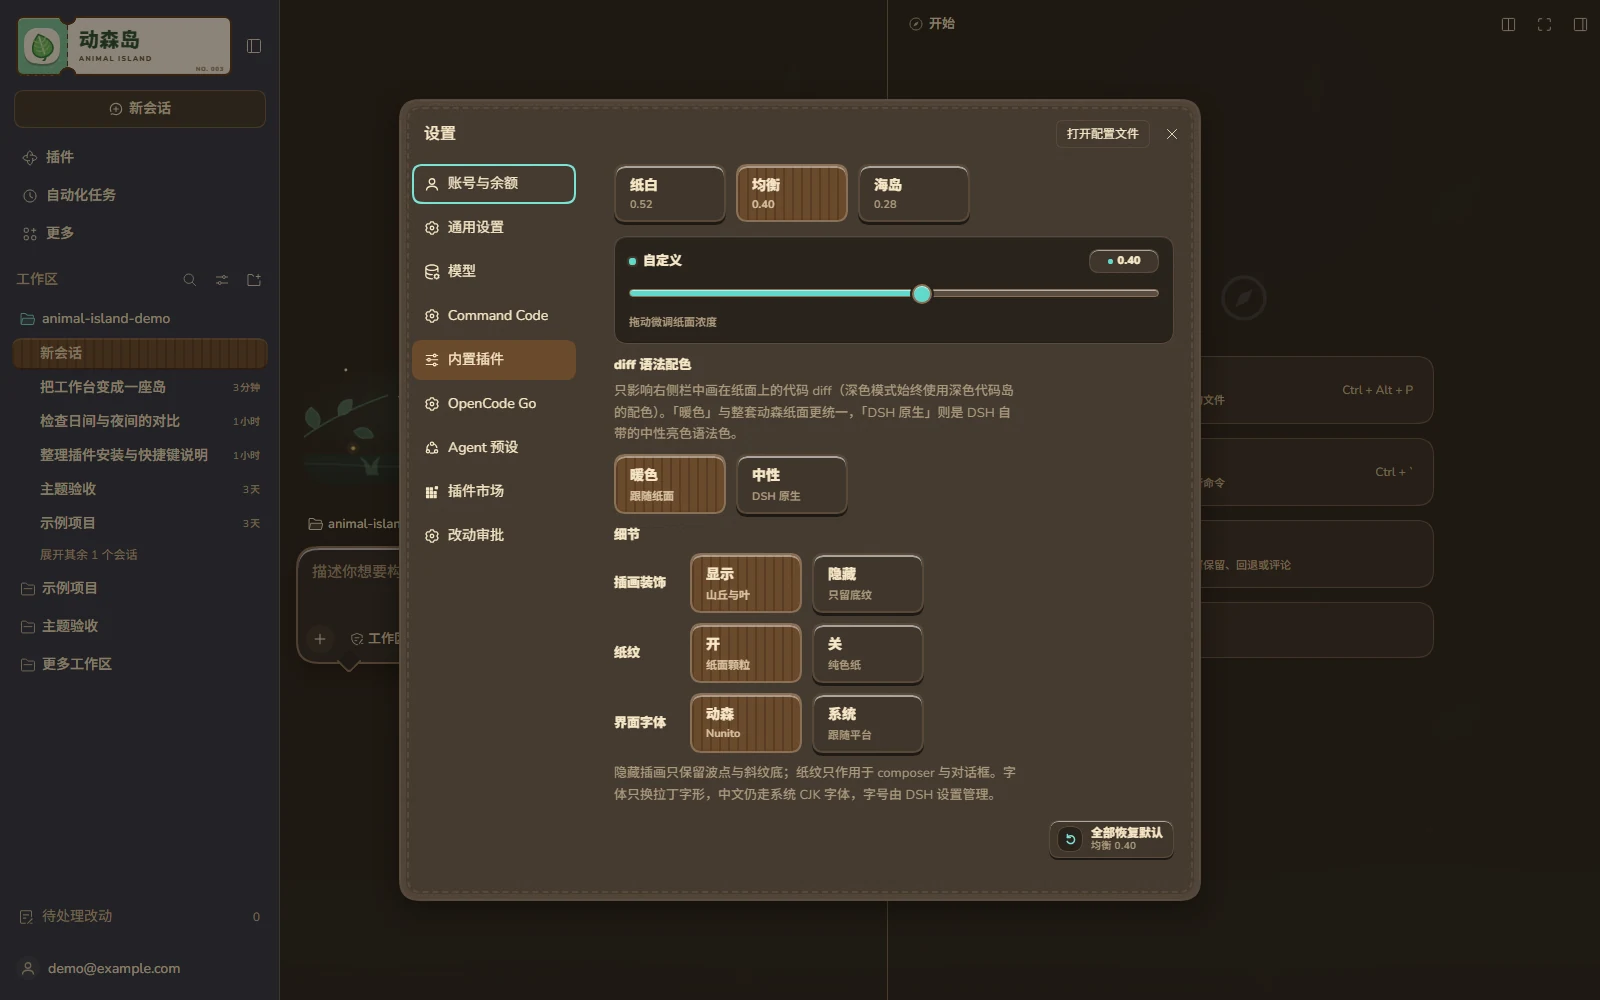
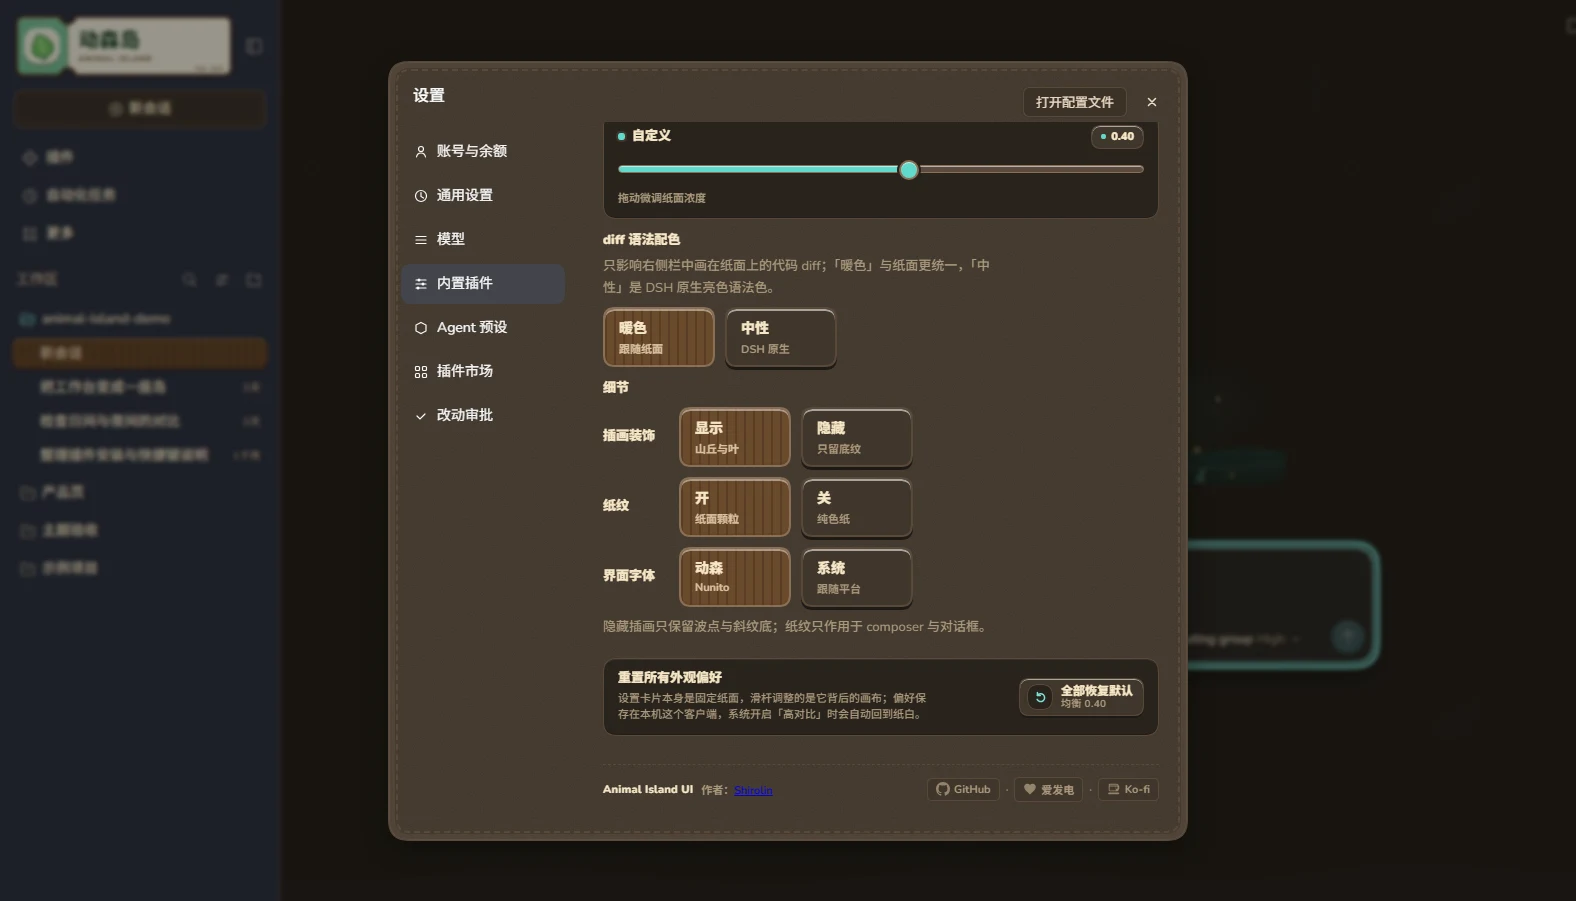
feat(appearance): refresh settings screenshots and fixture for new reset card and footer

diff --git a/test/fixtures/appearance-panel/body.html b/test/fixtures/appearance-panel/body.html
@@ -99,14 +99,48 @@
         <p class="animal-island-appearance__details-hint">隐藏插画只保留波点与斜纹底；纸纹只作用于 composer 与对话框。</p>
       </fieldset>
       <div class="animal-island-appearance__actions">
-        <button type="button" class="animal-island-appearance__reset" aria-label="恢复全部外观设置">
-          <span class="animal-island-appearance__reset-icon" aria-hidden="true">
-            <svg viewBox="0 0 16 16" fill="none"><path d="M4.7 5.8A4.2 4.2 0 1 1 4.4 10"/><path d="M4.7 2.7v3.1h3.1"/></svg>
-          </span>
-          <span class="animal-island-appearance__reset-copy"><span>全部恢复默认</span><small>均衡 0.40</small></span>
-        </button>
+        <div class="animal-island-appearance__reset-card">
+          <div class="animal-island-appearance__reset-info">
+            <span class="animal-island-appearance__reset-title">重置所有外观偏好</span>
+            <p class="animal-island-appearance__note">设置卡片本身是固定纸面，滑杆调整的是它背后的画布；偏好保存在本机这个客户端，系统开启「高对比」时会自动回到纸白。</p>
+          </div>
+          <button type="button" class="animal-island-appearance__reset" aria-label="恢复全部外观设置">
+            <span class="animal-island-appearance__reset-icon" aria-hidden="true">
+              <svg viewBox="0 0 16 16" fill="none"><path d="M4.7 5.8A4.2 4.2 0 1 1 4.4 10"/><path d="M4.7 2.7v3.1h3.1"/></svg>
+            </span>
+            <span class="animal-island-appearance__reset-copy"><span>全部恢复默认</span><small>均衡 0.40</small></span>
+          </button>
+        </div>
       </div>
-      <p class="animal-island-appearance__note">偏好保存在本机这个客户端，系统开启「高对比」时会自动回到纸白。</p>
+
+      <footer class="animal-island-appearance__about">
+        <div class="animal-island-appearance__about-meta">
+          <span class="animal-island-appearance__about-title">Animal Island UI</span>
+          <span class="animal-island-appearance__about-author">作者：<a href="https://github.com/Shirolin" target="_blank" rel="noreferrer">Shirolin</a></span>
+        </div>
+        <div class="animal-island-appearance__about-links">
+          <a class="animal-island-appearance__about-link" href="https://github.com/Shirolin/dsh-theme-animal-island-ui" target="_blank" rel="noreferrer" title="查看源码与反馈 Issue">
+            <svg class="animal-island-appearance__about-icon" viewBox="0 0 16 16" width="14" height="14" fill="currentColor" aria-hidden="true">
+              <path d="M8 0C3.58 0 0 3.58 0 8c0 3.54 2.29 6.53 5.47 7.59.4.07.55-.17.55-.38 0-.19-.01-.82-.01-1.49-2.01.37-2.53-.49-2.69-.94-.09-.23-.48-.94-.82-1.13-.28-.15-.68-.52-.01-.53.63-.01 1.08.58 1.23.82.72 1.21 1.87.87 2.33.66.07-.52.28-.87.51-1.07-1.78-.2-3.64-.89-3.64-3.95 0-.87.31-1.59.82-2.15-.08-.2-.36-1.02.08-2.12 0 0 .67-.21 2.2.82.64-.18 1.32-.27 2-.27.68 0 1.36.09 2 .27 1.53-1.04 2.2-.82 2.2-.82.44 1.1.16 1.92.08 2.12.51.56.82 1.27.82 2.15 0 3.07-1.87 3.75-3.65 3.95.29.25.54.73.54 1.48 0 1.07-.01 1.93-.01 2.2 0 .21.15.46.55.38A8.013 8.013 0 0016 8c0-4.42-3.58-8-8-8z"/>
+            </svg>
+            <span>GitHub</span>
+          </a>
+          <span class="animal-island-appearance__about-sep" aria-hidden="true">·</span>
+          <a class="animal-island-appearance__about-link" href="https://afdian.com/a/shirolin" target="_blank" rel="noreferrer" title="在爱发电赞助支持">
+            <svg class="animal-island-appearance__about-icon" viewBox="0 0 24 24" width="14" height="14" fill="currentColor" aria-hidden="true">
+              <path d="M12 21.35l-1.45-1.32C5.4 15.36 2 12.28 2 8.5 2 5.42 4.42 3 7.5 3c1.74 0 3.41.81 4.5 2.09C13.09 3.81 14.76 3 16.5 3 19.58 3 22 5.42 22 8.5c0 3.78-3.4 6.86-8.55 11.54L12 21.35z"/>
+            </svg>
+            <span>爱发电</span>
+          </a>
+          <span class="animal-island-appearance__about-sep" aria-hidden="true">·</span>
+          <a class="animal-island-appearance__about-link" href="https://ko-fi.com/shirolin" target="_blank" rel="noreferrer" title="Buy me a coffee on Ko-fi">
+            <svg class="animal-island-appearance__about-icon" viewBox="0 0 24 24" width="14" height="14" fill="currentColor" aria-hidden="true">
+              <path d="M20.216 6.415l-.132-.666c-.119-.597-.388-1.135-.779-1.557C18.667 3.5 17.65 3 16.273 3H4.5C3.67 3 3 3.67 3 4.5v10C3 15.33 3.67 16 4.5 16h11.773c1.377 0 2.394-.5 3.032-1.192.391-.422.66-.96.779-1.557l.132-.666c.472-.375.784-.954.784-1.585v-3c0-.631-.312-1.21-.784-1.585zm-2.07 4.17c-.035.176-.118.337-.24.463-.264.274-.757.452-1.633.452h-.773V7.5h.773c.876 0 1.369.178 1.633.452.122.126.205.287.24.463l.066.333-.066.837zM4.5 4.5h11.773c.85 0 1.25.26 1.408.43.08.087.135.197.165.32l.064.321V6H4.5V4.5zm0 10V7.5h10.5v7H4.5zM2 19.5C2 18.67 2.67 18 3.5 18h16c.83 0 1.5.67 1.5 1.5s-.67 1.5-1.5 1.5h-16C2.67 21 2 20.33 2 19.5z"/>
+            </svg>
+            <span>Ko-fi</span>
+          </a>
+        </div>
+      </footer>
     </section>
   </article>
 
@@ -162,14 +196,26 @@
         <p class="animal-island-appearance__details-hint">隐藏插画只保留波点与斜纹底。</p>
       </fieldset>
       <div class="animal-island-appearance__actions">
-        <button type="button" class="animal-island-appearance__reset" aria-label="恢复全部外观设置">
-          <span class="animal-island-appearance__reset-icon" aria-hidden="true">
-            <svg viewBox="0 0 16 16" fill="none"><path d="M4.7 5.8A4.2 4.2 0 1 1 4.4 10"/><path d="M4.7 2.7v3.1h3.1"/></svg>
-          </span>
-          <span class="animal-island-appearance__reset-copy"><span>全部恢复默认</span><small>均衡 0.40</small></span>
-        </button>
+        <div class="animal-island-appearance__reset-card">
+          <div class="animal-island-appearance__reset-info">
+            <span class="animal-island-appearance__reset-title">重置偏好</span>
+            <p class="animal-island-appearance__note">偏好保存在本机这个客户端。</p>
+          </div>
+          <button type="button" class="animal-island-appearance__reset" aria-label="恢复全部外观设置">
+            <span class="animal-island-appearance__reset-icon" aria-hidden="true">
+              <svg viewBox="0 0 16 16" fill="none"><path d="M4.7 5.8A4.2 4.2 0 1 1 4.4 10"/><path d="M4.7 2.7v3.1h3.1"/></svg>
+            </span>
+            <span class="animal-island-appearance__reset-copy"><span>全部恢复默认</span><small>均衡 0.40</small></span>
+          </button>
+        </div>
       </div>
-      <p class="animal-island-appearance__note">偏好保存在本机这个客户端。</p>
+
+      <footer class="animal-island-appearance__about">
+        <div class="animal-island-appearance__about-meta">
+          <span class="animal-island-appearance__about-title">Animal Island</span>
+          <span class="animal-island-appearance__about-author"><a href="https://github.com/Shirolin" target="_blank" rel="noreferrer">Shirolin</a></span>
+        </div>
+      </footer>
     </section>
   </article>
 </main>

diff --git a/lib/client.js b/lib/client.js
@@ -1023,16 +1023,42 @@ function AppearanceTab({ appearance }) {
         ] }),
         /* @__PURE__ */ (0, import_jsx_runtime2.jsx)("span", { className: "animal-island-appearance__about-dot", "aria-hidden": "true", children: "\xB7" }),
         /* @__PURE__ */ (0, import_jsx_runtime2.jsxs)("a", { href: "https://ifdian.net/a/shirolin", target: "_blank", rel: "noreferrer", className: "animal-island-appearance__about-link", children: [
-          /* @__PURE__ */ (0, import_jsx_runtime2.jsx)("svg", { className: "animal-island-appearance__about-icon animal-island-appearance__about-icon--afdian", viewBox: "0 0 16 16", width: "12", height: "12", fill: "currentColor", "aria-hidden": "true", children: /* @__PURE__ */ (0, import_jsx_runtime2.jsx)("path", { d: "M8 14s-5.5-3.3-5.5-7.5A3.5 3.5 0 0 1 8 3.8a3.5 3.5 0 0 1 5.5 2.7C13.5 10.7 8 14 8 14z" }) }),
+          /* @__PURE__ */ (0, import_jsx_runtime2.jsx)(
+            "svg",
+            {
+              className: "animal-island-appearance__about-icon animal-island-appearance__about-icon--afdian",
+              viewBox: "0 0 16 16",
+              width: "12",
+              height: "12",
+              fill: "currentColor",
+              "aria-hidden": "true",
+              children: /* @__PURE__ */ (0, import_jsx_runtime2.jsx)("path", { d: "M8 14s-5.5-3.3-5.5-7.5A3.5 3.5 0 0 1 8 3.8a3.5 3.5 0 0 1 5.5 2.7C13.5 10.7 8 14 8 14z" })
+            }
+          ),
           "\u7231\u53D1\u7535"
         ] }),
         /* @__PURE__ */ (0, import_jsx_runtime2.jsx)("span", { className: "animal-island-appearance__about-dot", "aria-hidden": "true", children: "\xB7" }),
         /* @__PURE__ */ (0, import_jsx_runtime2.jsxs)("a", { href: "https://ko-fi.com/shirolin", target: "_blank", rel: "noreferrer", className: "animal-island-appearance__about-link", children: [
-          /* @__PURE__ */ (0, import_jsx_runtime2.jsxs)("svg", { className: "animal-island-appearance__about-icon animal-island-appearance__about-icon--kofi", viewBox: "0 0 16 16", width: "12", height: "12", fill: "none", stroke: "currentColor", strokeWidth: "1.4", strokeLinecap: "round", strokeLinejoin: "round", "aria-hidden": "true", children: [
-            /* @__PURE__ */ (0, import_jsx_runtime2.jsx)("path", { d: "M2.5 3.5h8v6a3 3 0 0 1-3 3h-2a3 3 0 0 1-3-3v-6z", fill: "currentColor", fillOpacity: "0.15" }),
-            /* @__PURE__ */ (0, import_jsx_runtime2.jsx)("path", { d: "M10.5 4.5h1.8a1.7 1.7 0 0 1 1.7 1.7v.6a1.7 1.7 0 0 1-1.7 1.7h-1.8" }),
-            /* @__PURE__ */ (0, import_jsx_runtime2.jsx)("line", { x1: "2", y1: "14", x2: "11", y2: "14", strokeWidth: "1.6" })
-          ] }),
+          /* @__PURE__ */ (0, import_jsx_runtime2.jsxs)(
+            "svg",
+            {
+              className: "animal-island-appearance__about-icon animal-island-appearance__about-icon--kofi",
+              viewBox: "0 0 16 16",
+              width: "12",
+              height: "12",
+              fill: "none",
+              stroke: "currentColor",
+              strokeWidth: "1.4",
+              strokeLinecap: "round",
+              strokeLinejoin: "round",
+              "aria-hidden": "true",
+              children: [
+                /* @__PURE__ */ (0, import_jsx_runtime2.jsx)("path", { d: "M2.5 3.5h8v6a3 3 0 0 1-3 3h-2a3 3 0 0 1-3-3v-6z", fill: "currentColor", fillOpacity: "0.15" }),
+                /* @__PURE__ */ (0, import_jsx_runtime2.jsx)("path", { d: "M10.5 4.5h1.8a1.7 1.7 0 0 1 1.7 1.7v.6a1.7 1.7 0 0 1-1.7 1.7h-1.8" }),
+                /* @__PURE__ */ (0, import_jsx_runtime2.jsx)("line", { x1: "2", y1: "14", x2: "11", y2: "14", strokeWidth: "1.6" })
+              ]
+            }
+          ),
           "Ko-fi"
         ] })
       ] })
